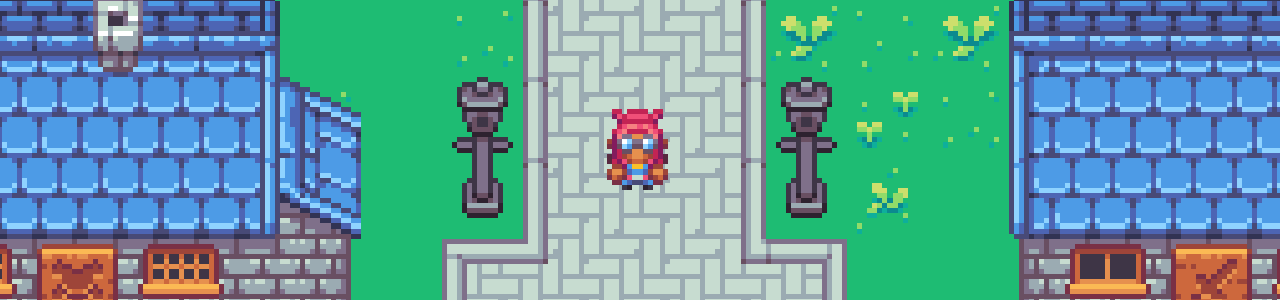
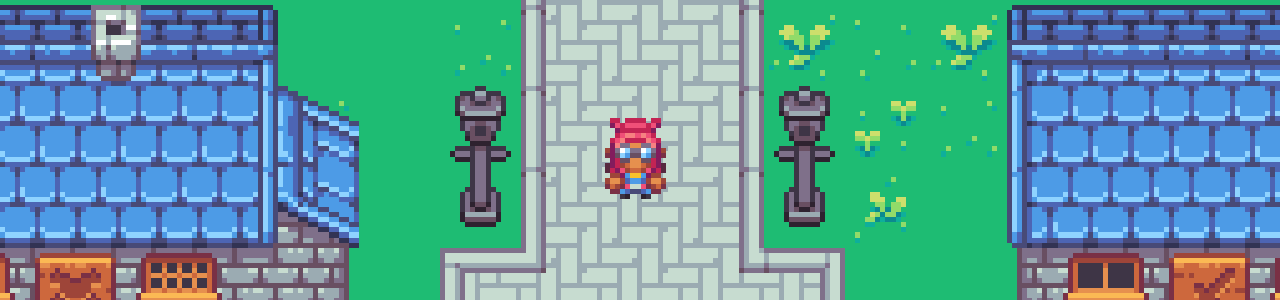
feat: added game news to homepaged and redesigned slightly

diff --git a/src/pages/HomePage.tsx b/src/pages/HomePage.tsx
@@ -4,6 +4,8 @@ import { Link } from 'react-router-dom';
 
 import { home, reference } from '@/assets/img';
 import { PageCard, PageCardData } from '@/components/PageCard';
+import PageHeader from '@/components/PageHeader';
+import { SteamNews } from '@/components/SteamNews';
 import { useTheme } from '@/hooks/useTheme';
 
 const HomePage = () => {
@@ -30,80 +32,82 @@ const HomePage = () => {
     },
   ];
 
-  // Child pages for each section
-  const childPages = {
-    guides: [
-      { title: 'How to Play', path: '/guides/how-to-play' },
-      { title: 'Smithing', path: '/guides/smithing' },
-      { title: 'Brewing Potions', path: '/guides/brewing-potions' },
-      { title: 'Enchanting', path: '/guides/enchanting' },
-      { title: 'Farming', path: '/guides/farming' },
-      { title: 'Your House', path: '/guides/your-house' },
-      { title: 'Tips and Tricks', path: '/guides/tips-and-tricks' },
-      { title: 'FAQ', path: '/guides/faq' },
-    ],
-    reference: [
-      { title: 'Crystals', path: '/reference/crystals' },
-      { title: 'Potions', path: '/reference/potions' },
-      { title: 'Vegetables', path: '/reference/vegetables' },
-      { title: 'Monsters', path: '/reference/monsters' },
-      { title: 'Smithing', path: '/reference/smithing' },
-      { title: 'Village NPCs & Quests', path: '/reference/villagers' },
-    ],
-    tools: [
-      { title: 'Crop Profit Calculator', path: '/tools/crop-calculator' },
-    ],
-  };
-
   return (
     <>
-      {/* Home Banner Image */}
-      <div className="mb-8">
-        <div
-          className="w-full h-[300px] overflow-hidden flex items-center justify-center rounded-lg"
-          style={{ height: '300px' }}
-        >
+      {/* Page Header */}
+      <PageHeader
+        title="Welcome to the Reborn Fansite"
+        description={
+          <>
+            Your one-stop destination for all things{' '}
+            <a
+              href="https://store.steampowered.com/app/2850000/Reborn_An_Idle_Roguelike_RPG/"
+              target="_blank"
+              rel="noopener noreferrer"
+              className={theme.text.accent + ' hover:underline'}
+            >
+              Reborn
+            </a>
+            . Explore{' '}
+            <Link
+              to="/guides"
+              className={theme.text.accent + ' hover:underline'}
+            >
+              guides
+            </Link>
+            ,{' '}
+            <Link
+              to="/reference"
+              className={theme.text.accent + ' hover:underline'}
+            >
+              reference materials
+            </Link>
+            , and{' '}
+            <Link
+              to="/tools"
+              className={theme.text.accent + ' hover:underline'}
+            >
+              tools
+            </Link>
+            .
+          </>
+        }
+        showBreadcrumb={false}
+      />
+
+      {/* Feature Cards */}
+      <div className="grid grid-cols-1 md:grid-cols-3 gap-8 mb-8">
+        {features.map(feature => (
+          <div key={feature.id}>
+            <PageCard item={feature} />
+          </div>
+        ))}
+      </div>
+
+      {/* Combined Card: Header Image + Steam News */}
+      <div
+        className={clsx(
+          'mb-8 rounded-lg shadow-md overflow-hidden',
+          theme.background.elevated
+        )}
+      >
+        {/* Header Banner Image - Top rounded corners only */}
+        <div className="w-full h-[240px] overflow-hidden flex items-center justify-center">
           <img
             src={home}
             alt="Reborn Fansite Banner"
             className="object-none"
             style={{
               width: '1280px',
-              height: '300px',
+              height: '240px',
             }}
           />
         </div>
-      </div>
 
-      <div className="grid grid-cols-1 md:grid-cols-3 gap-8">
-        {features.map(feature => (
-          <div key={feature.id}>
-            <PageCard item={feature} />
-
-            {/* Child pages list */}
-            <div
-              className={clsx('mt-6 p-4 rounded-lg', theme.background.elevated)}
-            >
-              <ul className="space-y-2">
-                {childPages[feature.id as keyof typeof childPages].map(
-                  (child, index) => (
-                    <li key={index}>
-                      <Link
-                        to={child.path}
-                        className={clsx(
-                          'text-sm hover:underline block',
-                          theme.text.secondary
-                        )}
-                      >
-                        {child.title}
-                      </Link>
-                    </li>
-                  )
-                )}
-              </ul>
-            </div>
-          </div>
-        ))}
+        {/* Steam News - Bottom rounded corners only */}
+        <div className="p-6">
+          <SteamNews />
+        </div>
       </div>
     </>
   );

diff --git a/src/components/SteamNews.tsx b/src/components/SteamNews.tsx
@@ -1,0 +1,161 @@
+// src/components/SteamNews.tsx
+import { useTheme } from '@/hooks/useTheme';
+import clsx from 'clsx';
+import { useEffect, useState } from 'react';
+
+interface NewsItem {
+  title: string;
+  link: string;
+  description: string;
+}
+
+export const SteamNews = () => {
+  const theme = useTheme();
+  const [newsItem, setNewsItem] = useState<NewsItem | null>(null);
+  const [loading, setLoading] = useState(true);
+  const [error, setError] = useState<string | null>(null);
+
+  useEffect(() => {
+    const fetchLatestNews = async () => {
+      try {
+        setLoading(true);
+        setError(null);
+
+        const proxyUrl = 'https://api.allorigins.win/raw?url=';
+        const steamRssUrl = 'https://steamcommunity.com/games/2850000/rss/';
+        const response = await fetch(
+          proxyUrl + encodeURIComponent(steamRssUrl)
+        );
+
+        if (!response.ok) {
+          throw new Error('Failed to fetch Steam news');
+        }
+
+        const xmlText = await response.text();
+        const parser = new DOMParser();
+        const xmlDoc = parser.parseFromString(xmlText, 'text/xml');
+
+        const parserError = xmlDoc.getElementsByTagName('parsererror');
+        if (parserError.length > 0) {
+          throw new Error('Failed to parse RSS feed');
+        }
+
+        const items = xmlDoc.getElementsByTagName('item');
+        const firstItem = items[0];
+
+        if (!firstItem) {
+          throw new Error('No news items found');
+        }
+
+        const title =
+          firstItem.getElementsByTagName('title')[0]?.textContent || 'No title';
+        const link =
+          firstItem.getElementsByTagName('link')[0]?.textContent || '';
+        const description =
+          firstItem.getElementsByTagName('description')[0]?.textContent || '';
+
+        // Process description: convert divs to headers, preserve line breaks
+        const processedDescription = description
+          .replace(/<div[^>]*>(.*?)<\/div>/gi, '\n##HEADER##$1##/HEADER##\n')
+          .replace(/<br\s*\/?>/gi, '\n')
+          .replace(/<[^>]*>/g, '')
+          .trim();
+
+        setNewsItem({
+          title,
+          link,
+          description: processedDescription,
+        });
+      } catch (err) {
+        console.error('Error fetching Steam news:', err);
+        setError(err instanceof Error ? err.message : 'Unknown error occurred');
+      } finally {
+        setLoading(false);
+      }
+    };
+
+    fetchLatestNews();
+  }, []);
+
+  if (loading) {
+    return (
+      <>
+        <h3 className={clsx('text-xl font-bold mb-4', theme.text.primary)}>
+          Latest Reborn Update
+        </h3>
+        <div className="flex items-center justify-center py-8">
+          <div className="animate-spin rounded-full h-8 w-8 border-b-2 border-gray-500"></div>
+          <span className={clsx('ml-3', theme.text.secondary)}>
+            Loading news...
+          </span>
+        </div>
+      </>
+    );
+  }
+
+  if (error || !newsItem) {
+    return (
+      <>
+        <h3 className={clsx('text-xl font-bold mb-4', theme.text.primary)}>
+          Latest Reborn Update
+        </h3>
+        <div className={clsx('text-center py-8', theme.text.secondary)}>
+          <p>Unable to load Steam news at the moment.</p>
+          {error && <p className="text-sm mt-2">Error: {error}</p>}
+        </div>
+      </>
+    );
+  }
+
+  return (
+    <>
+      <h3 className={clsx('text-xl font-bold mb-4', theme.text.primary)}>
+        Latest Reborn Update
+      </h3>
+
+      <div className="mb-3">
+        <h4 className={clsx('font-semibold text-lg mb-2', theme.text.primary)}>
+          {newsItem.link ? (
+            <a
+              href={newsItem.link}
+              target="_blank"
+              rel="noopener noreferrer"
+              className={clsx('hover:underline', theme.text.accent)}
+            >
+              {newsItem.title}
+            </a>
+          ) : (
+            newsItem.title
+          )}
+        </h4>
+      </div>
+
+      <div className={clsx('whitespace-pre-line', theme.text.secondary)}>
+        {newsItem.description
+          .split(/##HEADER##(.*?)##\/HEADER##/)
+          .map((part, index) => {
+            if (index % 2 === 1) {
+              return (
+                <h5
+                  key={index}
+                  className={clsx(
+                    'font-semibold text-base mt-4 mb-2',
+                    theme.text.primary
+                  )}
+                >
+                  {part.trim()}
+                </h5>
+              );
+            } else if (part.trim()) {
+              return (
+                <div key={index} className="whitespace-pre-line">
+                  {part.trim()}
+                </div>
+              );
+            }
+            return null;
+          })}
+      </div>
+    </>
+  );
+};

diff --git a/src/components/PageHeader.tsx b/src/components/PageHeader.tsx
@@ -1,25 +1,19 @@
 // src/components/PageHeader.tsx
 import clsx from 'clsx';
-import { FC, memo, useEffect } from 'react';
+import { FC, memo, ReactNode, useEffect } from 'react';
 
 import Breadcrumb from '@/components/Breadcrumb';
 import { useTheme } from '@/hooks/useTheme';
 
 interface PageHeaderProps {
   title: string;
-  description?: string;
+  description?: ReactNode;
   showBreadcrumb?: boolean;
 }
 
 // Memoized header content component - won't re-render when breadcrumb changes
 const HeaderContent = memo(
-  ({
-    title,
-    description,
-  }: {
-    title: string;
-    description: string | undefined;
-  }) => {
+  ({ title, description }: { title: string; description: ReactNode }) => {
     const theme = useTheme();
 
     return (
@@ -28,7 +22,9 @@ const HeaderContent = memo(
           {title}
         </h1>
         {description && (
-          <p className={clsx('text-lg', theme.text.secondary)}>{description}</p>
+          <div className={clsx('text-lg', theme.text.secondary)}>
+            {description}
+          </div>
         )}
       </div>
     );
@@ -48,7 +44,7 @@ const PageHeader: FC<PageHeaderProps> = ({
     const originalTitle = document.title;
 
     // Special case for home page - keep it simple
-    if (title === 'Welcome to Reborn Fansite') {
+    if (title === 'Welcome to the Reborn Fansite') {
       document.title = 'Reborn Fansite - Tools & Reference for Reborn Players';
     } else {
       document.title = `${title} - Reborn Fansite`;
